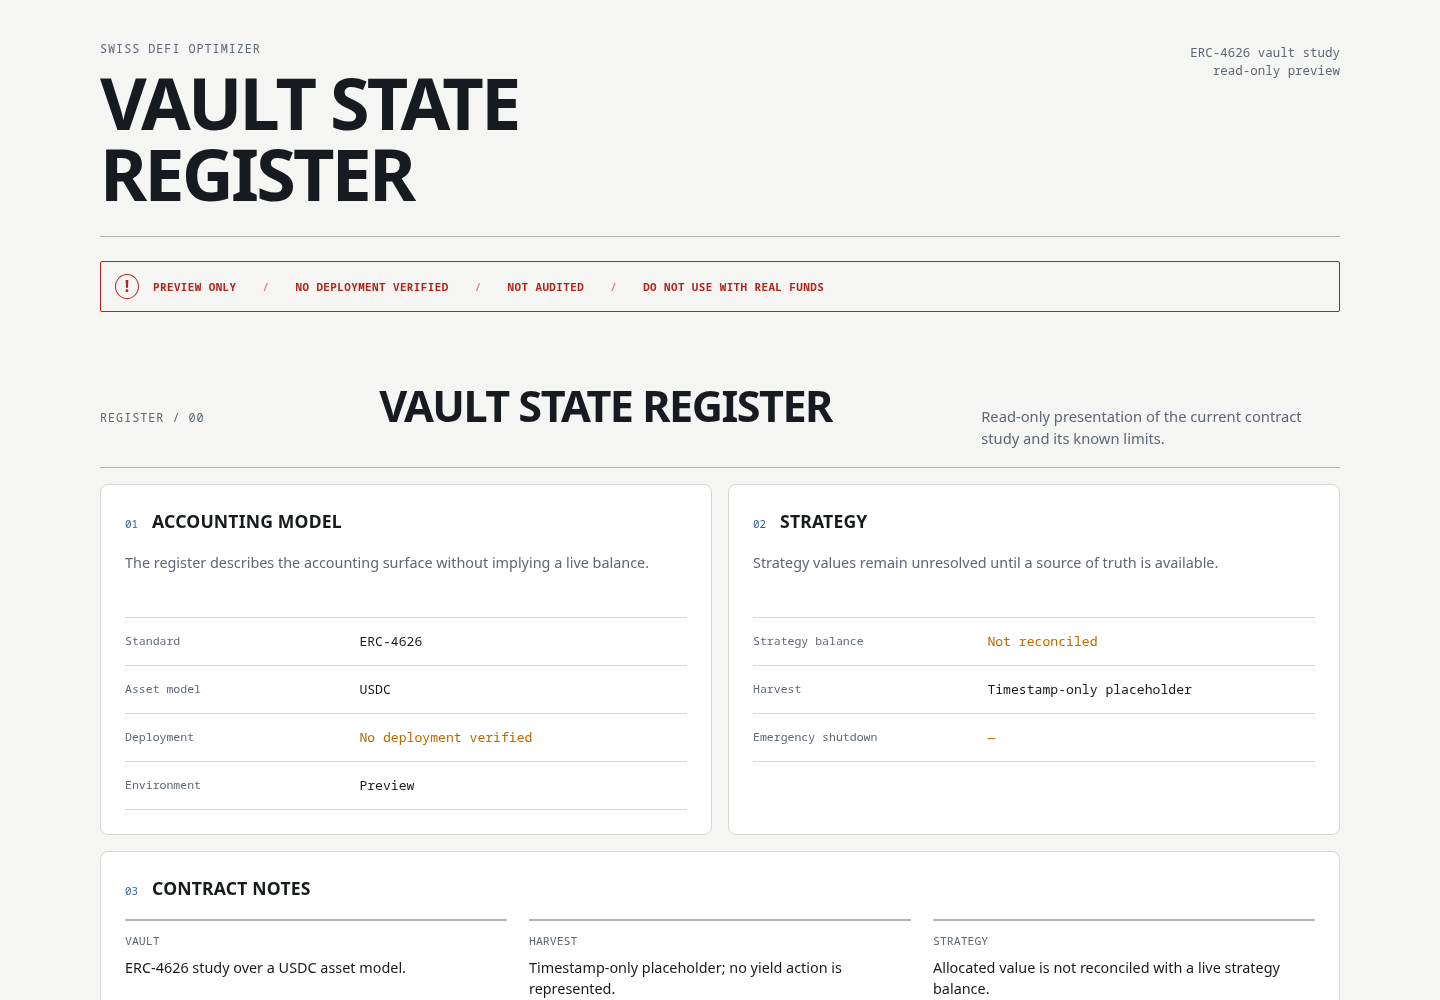
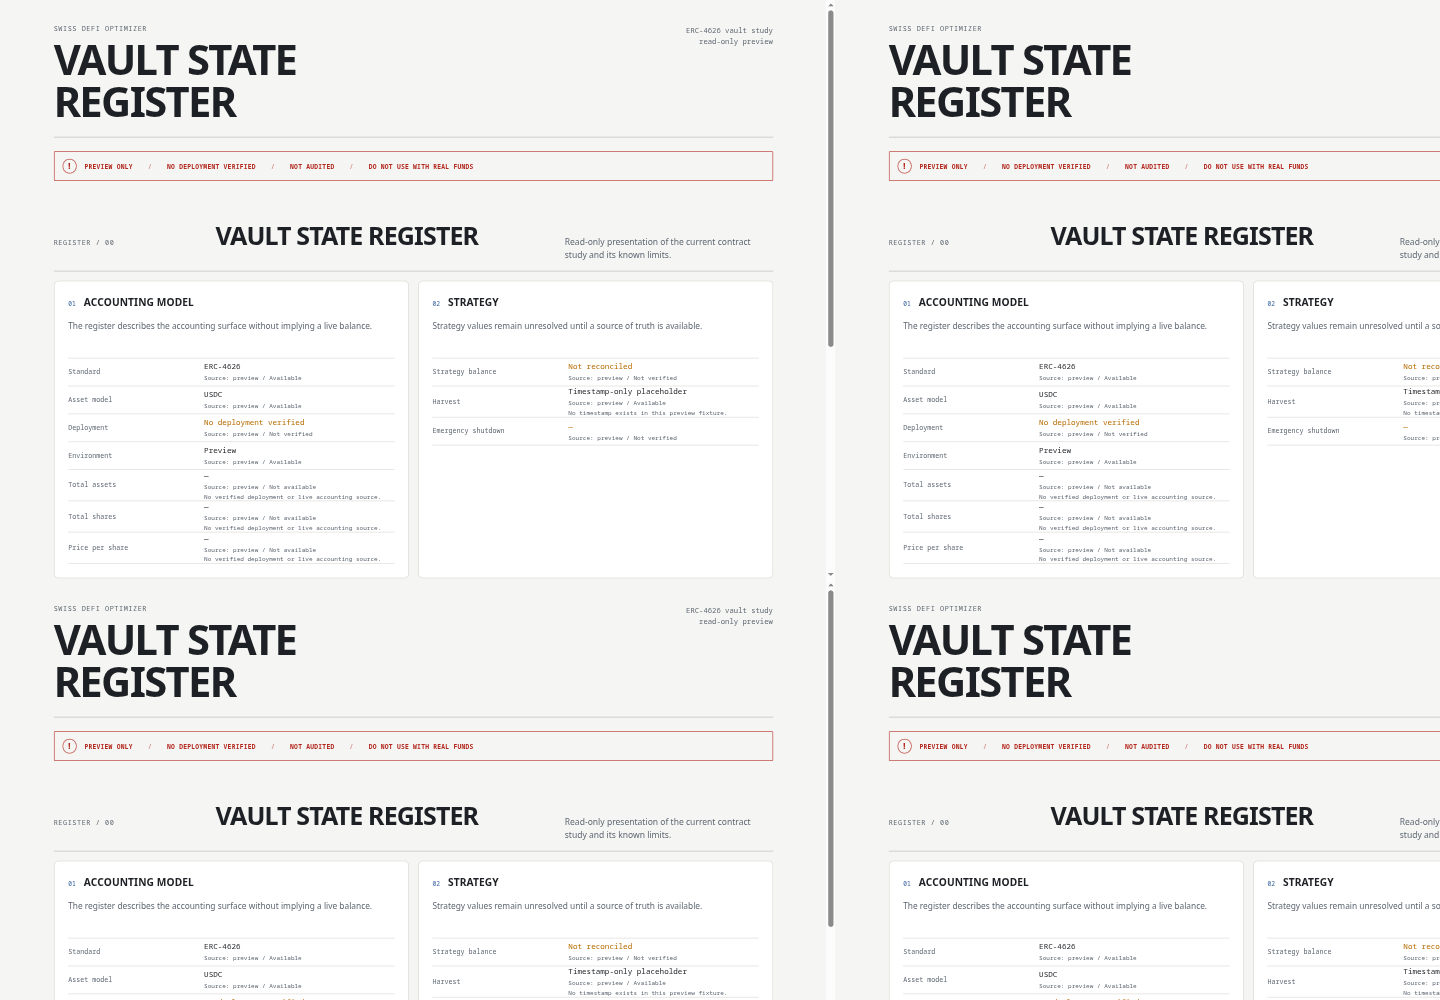
feat(ui): add vault state provenance states

diff --git a/web/src/App.test.tsx b/web/src/App.test.tsx
@@ -1,6 +1,8 @@
 import { render, screen } from '@testing-library/react';
 import { describe, expect, it } from 'vitest';
 import { App } from './App';
+import { errorState, staleState, unavailableState } from './data/test-states';
+import { RegisterTable } from './components/RegisterTable';
 
 describe('Vault State Register preview', () => {
   it('renders the risk strip and explicit preview warnings', () => {
@@ -23,5 +25,52 @@ describe('Vault State Register preview', () => {
     expect(screen.getByText('Not reconciled')).toBeInTheDocument();
     expect(screen.getAllByText('—').length).toBeGreaterThan(0);
     expect(screen.queryByText(/\b(0|100|1000)\b/)).not.toBeInTheDocument();
+  });
+
+  it('renders an empty field as an em dash and identifies preview provenance', () => {
+    render(<RegisterTable fields={[{ label: 'Missing value', field: unavailableState }]} />);
+    expect(screen.getByText('—')).toBeInTheDocument();
+    expect(screen.getByText('Source: fixture / Not available')).toBeInTheDocument();
+  });
+
+  it('renders not-verified and preview source explicitly', () => {
+    render(<App />);
+    expect(screen.getAllByText('Source: preview / Not verified').length).toBeGreaterThan(0);
+    expect(screen.getAllByText(/Source: preview/).length).toBeGreaterThan(0);
+  });
+
+  it('keeps preview values visibly distinct from live data', () => {
+    render(<App />);
+    expect(screen.getByText('STATIC PREVIEW / NO LIVE STATE')).toBeInTheDocument();
+    expect(screen.getAllByText(/Source: preview/).length).toBeGreaterThan(0);
+  });
+
+  it('formats TokenAmount from raw text without unsafe number conversion', () => {
+    render(<RegisterTable fields={[{
+      label: 'Precise amount',
+      field: {
+        value: { raw: '123456789012345678901234', decimals: 6, symbol: 'USDC' },
+        availability: 'available',
+        source: 'fixture',
+      },
+    }]} />);
+    expect(screen.getByText('123456789012345678.901234 USDC')).toBeInTheDocument();
+  });
+
+  it('keeps SwissCompliance separate from typed vault fields', () => {
+    render(<App />);
+    expect(screen.getByRole('heading', { name: 'SwissCompliance' })).toBeInTheDocument();
+    expect(screen.getByLabelText('SwissCompliance source')).toHaveTextContent('Source: preview');
+  });
+
+  it('does not present error or stale fixtures as confirmed success', () => {
+    render(<RegisterTable fields={[
+      { label: 'Error field', field: errorState },
+      { label: 'Stale field', field: staleState },
+    ]} />);
+    expect(screen.getByText('Source: fixture / Error')).toBeInTheDocument();
+    expect(screen.getByText('Source: fixture / Stale')).toBeInTheDocument();
+    expect(screen.getByText('Old preview value')).toBeInTheDocument();
+    expect(screen.queryByText('Source: fixture / available')).not.toBeInTheDocument();
   });
 });

diff --git a/web/src/styles/globals.css b/web/src/styles/globals.css
@@ -33,11 +33,13 @@ h1 { max-width: 650px; margin-bottom: 0; font-size: clamp(2rem, 5vw, 4.8rem); li
 .section-index { color: var(--info); font-size: 0.68rem; }
 .section-heading h2 { min-width: 0; margin: 0; overflow-wrap: anywhere; font-size: 1.1rem; font-weight: 650; letter-spacing: 0.01em; text-transform: uppercase; }
 .section-intro { min-height: 44px; margin-bottom: 20px; color: var(--ink-muted); font-size: 0.9rem; }
-.register-table { border-top: 1px solid var(--rule); }
+.register-table { margin: 0; border-top: 1px solid var(--rule); }
 .register-row { display: grid; grid-template-columns: minmax(130px, 0.8fr) 1.2fr; gap: 16px; min-height: 48px; align-items: center; border-bottom: 1px solid var(--rule); }
 .register-label { color: var(--ink-muted); font-size: 0.72rem; }
-.register-value { overflow-wrap: anywhere; font-size: 0.82rem; }
-.register-value.is-unverified { color: var(--warning); }
+.register-value { display: grid; gap: 3px; min-width: 0; margin: 0; overflow-wrap: anywhere; font-size: 0.82rem; }
+.register-value.is-not-verified, .register-value.is-stale, .register-value.is-error { color: var(--warning); }
+.register-value.is-error { color: var(--danger); }
+.field-provenance, .field-note { color: var(--ink-muted); font-family: ui-monospace, SFMono-Regular, Menlo, Consolas, monospace; font-size: 0.65rem; line-height: 1.35; }
 .note-list { display: grid; grid-template-columns: repeat(3, 1fr); gap: 22px; margin: 0; padding: 0; list-style: none; }
 .note-list li { display: grid; gap: 8px; align-content: start; padding-top: 12px; border-top: 2px solid var(--rule-strong); font-size: 0.9rem; }
 .note-key { color: var(--ink-muted); font-family: ui-monospace, SFMono-Regular, Menlo, Consolas, monospace; font-size: 0.72rem; text-transform: uppercase; }
@@ -45,6 +47,7 @@ h1 { max-width: 650px; margin-bottom: 0; font-size: clamp(2rem, 5vw, 4.8rem); li
 .compliance-notice .section-heading { margin-bottom: 10px; }
 .compliance-status { margin-bottom: 2px; font-family: ui-monospace, SFMono-Regular, Menlo, Consolas, monospace; font-size: 0.82rem; }
 .compliance-notice p:last-child { margin: 0; color: var(--ink-muted); font-size: 0.9rem; }
+.compliance-notice .field-provenance { margin-top: 12px; }
 .method-notes { display: grid; grid-template-columns: 1fr 1fr; gap: 22px 48px; margin-top: 70px; padding: 24px 0 54px; border-top: 1px solid var(--rule-strong); }
 .method-notes .section-heading { grid-column: 1 / -1; margin-bottom: 0; }
 .method-notes p { margin: 0; color: var(--ink-muted); font-size: 0.86rem; }

diff --git a/web/src/components/RegisterTable.tsx b/web/src/components/RegisterTable.tsx
@@ -1,24 +1,46 @@
-import type { PreviewField } from '../types/ui-state';
+import type { Field, TokenAmount } from '../types/ui-state';
 
-function display(field: PreviewField) {
-  return field.value ?? '—';
+function formatTokenAmount(amount: TokenAmount) {
+  const { raw, decimals, symbol } = amount;
+  if (decimals === 0) return `${raw} ${symbol}`;
+  const padded = raw.padStart(decimals + 1, '0');
+  const splitAt = padded.length - decimals;
+  const whole = padded.slice(0, splitAt);
+  const fraction = padded.slice(splitAt).replace(/0+$/, '');
+  return `${whole}${fraction ? `.${fraction}` : ''} ${symbol}`;
+}
+
+function displayValue(value: string | boolean | TokenAmount | null) {
+  if (value === null) return '—';
+  if (typeof value === 'object') return formatTokenAmount(value);
+  return String(value);
+}
+
+function availabilityLabel(availability: Field<unknown>['availability']) {
+  if (availability === 'not-verified') return 'Not verified';
+  if (availability === 'not-available') return 'Not available';
+  return availability.charAt(0).toUpperCase() + availability.slice(1);
 }
 
 type RegisterTableProps = {
-  fields: Array<{ label: string; field: PreviewField }>;
+  fields: Array<{ label: string; field: Field<string | boolean | TokenAmount> }>;
 };
 
 export function RegisterTable({ fields }: RegisterTableProps) {
   return (
-    <div className="register-table" role="table" aria-label="Vault register">
+    <dl className="register-table" aria-label="Vault register">
       {fields.map(({ label, field }) => (
-        <div className="register-row" role="row" key={label}>
-          <div className="register-label" role="rowheader">{label}</div>
-          <div className={`register-value ${field.availability === 'not-verified' ? 'is-unverified' : ''}`} role="cell">
-            {display(field)}
-          </div>
+        <div className="register-row" key={label}>
+          <dt className="register-label">{label}</dt>
+          <dd className={`register-value is-${field.availability}`}>
+            <span>{displayValue(field.value)}</span>
+            <span className="field-provenance" aria-label={`${label} source and availability`}>
+              Source: {field.source} / {availabilityLabel(field.availability)}
+            </span>
+            {field.note && <span className="field-note">{field.note}</span>}
+          </dd>
         </div>
       ))}
-    </div>
+    </dl>
   );
 }

diff --git a/web/src/data/preview-state.ts b/web/src/data/preview-state.ts
@@ -1,21 +1,51 @@
-import type { PreviewField, PreviewState } from '../types/ui-state';
+import type { PreviewField, PreviewState, TokenAmount } from '../types/ui-state';
 
-const notVerified = (): PreviewField => ({
+const notVerified = <T,>(): PreviewField<T> => ({
   value: null,
   availability: 'not-verified',
+  source: 'preview',
+});
+
+const unavailableAmount = (): PreviewField<TokenAmount> => ({
+  ...notVerified<TokenAmount>(),
+  availability: 'not-available',
+  note: 'No verified deployment or live accounting source.',
+});
+
+const previewValue = <T,>(value: T): PreviewField<T> => ({
+  value,
+  availability: 'available',
+  source: 'preview',
 });
 
 export const previewState: PreviewState = {
-  standard: { value: 'ERC-4626', availability: 'available' },
-  assetModel: { value: 'USDC', availability: 'available' },
-  deployment: { value: 'No deployment verified', availability: 'not-verified' },
-  environment: { value: 'Preview', availability: 'available' },
-  strategyBalance: { value: 'Not reconciled', availability: 'not-verified' },
-  harvest: { value: 'Timestamp-only placeholder', availability: 'available' },
-  shutdown: notVerified(),
+  standard: previewValue('ERC-4626'),
+  assetModel: previewValue('USDC'),
+  deployment: {
+    value: 'No deployment verified',
+    availability: 'not-verified',
+    source: 'preview',
+  },
+  environment: previewValue('Preview'),
+  totalAssets: unavailableAmount(),
+  totalShares: unavailableAmount(),
+  pricePerShare: unavailableAmount(),
+  strategyBalance: {
+    value: 'Not reconciled',
+    availability: 'not-verified',
+    source: 'preview',
+  },
+  harvest: {
+    value: 'Timestamp-only placeholder',
+    availability: 'available',
+    source: 'preview',
+    note: 'No timestamp exists in this preview fixture.',
+  },
+  shutdown: notVerified<boolean>(),
   compliance: {
     name: 'SwissCompliance',
     status: 'Mock standalone',
     description: 'Not enforced by Vault. Not KYC.',
+    source: 'preview',
   },
 };

diff --git a/web/src/types/ui-state.ts b/web/src/types/ui-state.ts
@@ -1,21 +1,46 @@
-export type Availability = 'available' | 'not-verified' | 'not-applicable';
+export type DataSource = 'preview' | 'fixture' | 'rpc' | 'indexer';
 
-export type PreviewField = {
-  value: string | null;
-  availability: Availability;
+export type Availability =
+  | 'available'
+  | 'not-available'
+  | 'not-verified'
+  | 'stale'
+  | 'error';
+
+export type TokenAmount = {
+  raw: string;
+  decimals: number;
+  symbol: string;
 };
 
-export type PreviewState = {
-  standard: PreviewField;
-  assetModel: PreviewField;
-  deployment: PreviewField;
-  environment: PreviewField;
-  strategyBalance: PreviewField;
-  harvest: PreviewField;
-  shutdown: PreviewField;
+export type Field<T> = {
+  value: T | null;
+  availability: Availability;
+  source: DataSource;
+  note?: string;
+  updatedAt?: string;
+  blockNumber?: string;
+};
+
+export type PreviewField<T = string> = Field<T>;
+
+export type VaultUiState = {
+  standard: Field<string>;
+  assetModel: Field<string>;
+  deployment: Field<string>;
+  environment: Field<string>;
+  totalAssets: Field<TokenAmount>;
+  totalShares: Field<TokenAmount>;
+  pricePerShare: Field<TokenAmount>;
+  strategyBalance: Field<string>;
+  harvest: Field<string>;
+  shutdown: Field<boolean>;
   compliance: {
     name: string;
     status: string;
     description: string;
+    source: DataSource;
   };
 };
+
+export type PreviewState = VaultUiState;

diff --git a/web/src/data/test-states.ts b/web/src/data/test-states.ts
@@ -1,0 +1,21 @@
+import type { PreviewField, TokenAmount } from '../types/ui-state';
+
+export const unavailableState: PreviewField<TokenAmount> = {
+  value: null,
+  availability: 'not-available',
+  source: 'fixture',
+};
+
+export const errorState: PreviewField<string> = {
+  value: null,
+  availability: 'error',
+  source: 'fixture',
+  note: 'Fixture for an unavailable source.',
+};
+
+export const staleState: PreviewField<string> = {
+  value: 'Old preview value',
+  availability: 'stale',
+  source: 'fixture',
+  note: 'Fixture for a value that requires refresh.',
+};

diff --git a/web/src/components/AccountingPanel.tsx b/web/src/components/AccountingPanel.tsx
@@ -11,6 +11,9 @@ export function AccountingPanel({ state }: { state: PreviewState }) {
         { label: 'Asset model', field: state.assetModel },
         { label: 'Deployment', field: state.deployment },
         { label: 'Environment', field: state.environment },
+        { label: 'Total assets', field: state.totalAssets },
+        { label: 'Total shares', field: state.totalShares },
+        { label: 'Price per share', field: state.pricePerShare },
       ]} />
     </section>
   );

diff --git a/web/src/components/ComplianceNotice.tsx b/web/src/components/ComplianceNotice.tsx
@@ -6,6 +6,7 @@ export function ComplianceNotice({ state }: { state: PreviewState }) {
       <div className="section-heading"><span className="section-index">04</span><h2 id="compliance-title">{state.compliance.name}</h2></div>
       <p className="compliance-status">{state.compliance.status}</p>
       <p>{state.compliance.description}</p>
+      <p className="field-provenance" aria-label="SwissCompliance source">Source: {state.compliance.source}</p>
     </section>
   );
 }
